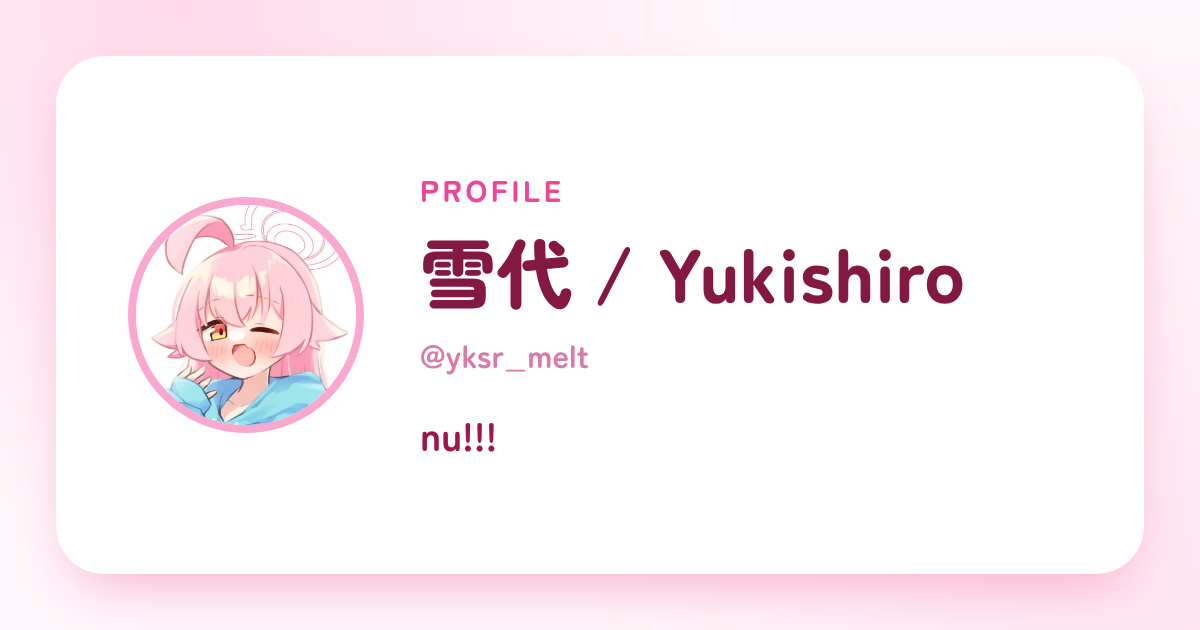
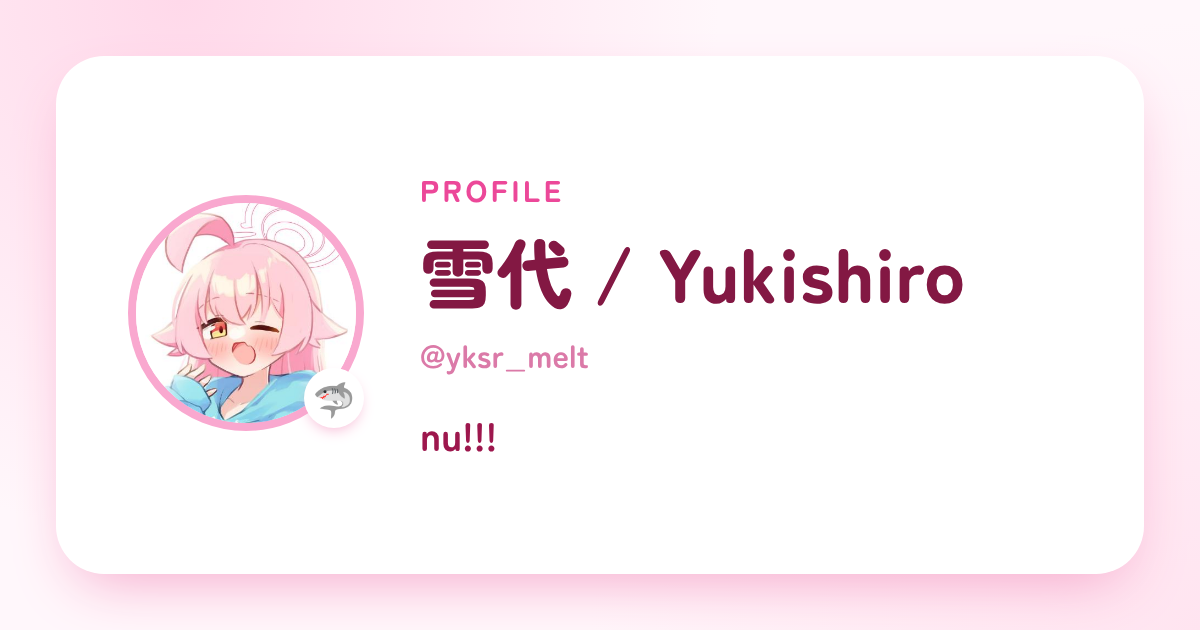
content: OG 画像のアイコンにサメのバッジを戻し、Last.fm をリンクに追加
Claude-Session: https://claude.ai/code/session_014DgyQfRQEpPKZfBguWeMvp

Changed region(s): [[0.1233, 0.4825, 0.3083, 0.6937], [0.1233, 0.3016, 0.3083, 0.4524]]

diff --git a/src/pages/Home.tsx b/src/pages/Home.tsx
@@ -1,6 +1,6 @@
 import { motion } from 'framer-motion'
 import { isHydrated } from '../hydration'
-import { Boxes, Music2, User, Link2, Mail, Target, Heart } from 'lucide-react'
+import { Boxes, Music2, User, Link2, Mail, Target, Heart, Music } from 'lucide-react'
 import { ContributionGraph } from '../components/ContributionGraph'
 import { NowPlaying } from '../components/NowPlaying'
 import { Reveal } from '../components/Reveal'
@@ -22,6 +22,7 @@ const linkIcons: Record<LinkIcon, IconComponent> = {
   mail: Mail,
   osu: Target,
   heart: Heart,
+  music: Music,
 }
 
 export function Home({ onNavigate }: { onNavigate: (tab: Tab) => void }) {

diff --git a/src/pages/Links.tsx b/src/pages/Links.tsx
@@ -1,6 +1,6 @@
 import { motion } from 'framer-motion'
 import { isHydrated } from '../hydration'
-import { ArrowUpRight, Mail, Target, Heart } from 'lucide-react'
+import { ArrowUpRight, Mail, Target, Heart, Music } from 'lucide-react'
 import { PageHeader } from '../components/PageHeader'
 import { GithubLogo, XLogo, DiscordLogo, type IconComponent } from '../components/BrandIcons'
 import { links, type LinkIcon } from '../data/mock'
@@ -14,6 +14,7 @@ const linkIcons: Record<LinkIcon, IconComponent> = {
   mail: Mail,
   osu: Target,
   heart: Heart,
+  music: Music,
 }
 
 export function Links() {

diff --git a/src/pages/LinkCard.tsx b/src/pages/LinkCard.tsx
@@ -1,4 +1,4 @@
-import { ArrowUpRight, Mail, Target, Heart } from 'lucide-react'
+import { ArrowUpRight, Mail, Target, Heart, Music } from 'lucide-react'
 import { GithubLogo, XLogo, DiscordLogo, type IconComponent } from '../components/BrandIcons'
 import { LanguageToggle } from '../components/LanguageToggle'
 import { links, site, websites, type LinkIcon } from '../data/mock'
@@ -12,6 +12,7 @@ const linkIcons: Record<LinkIcon, IconComponent> = {
   mail: Mail,
   osu: Target,
   heart: Heart,
+  music: Music,
 }
 
 /**

diff --git a/src/data/mock.ts b/src/data/mock.ts
@@ -13,7 +13,7 @@ export type Project = {
   emoji: string
 }
 
-export type LinkIcon = 'github' | 'x' | 'discord' | 'mail' | 'osu' | 'heart'
+export type LinkIcon = 'github' | 'x' | 'discord' | 'mail' | 'osu' | 'heart' | 'music'
 
 export type SiteLink = {
   name: string
